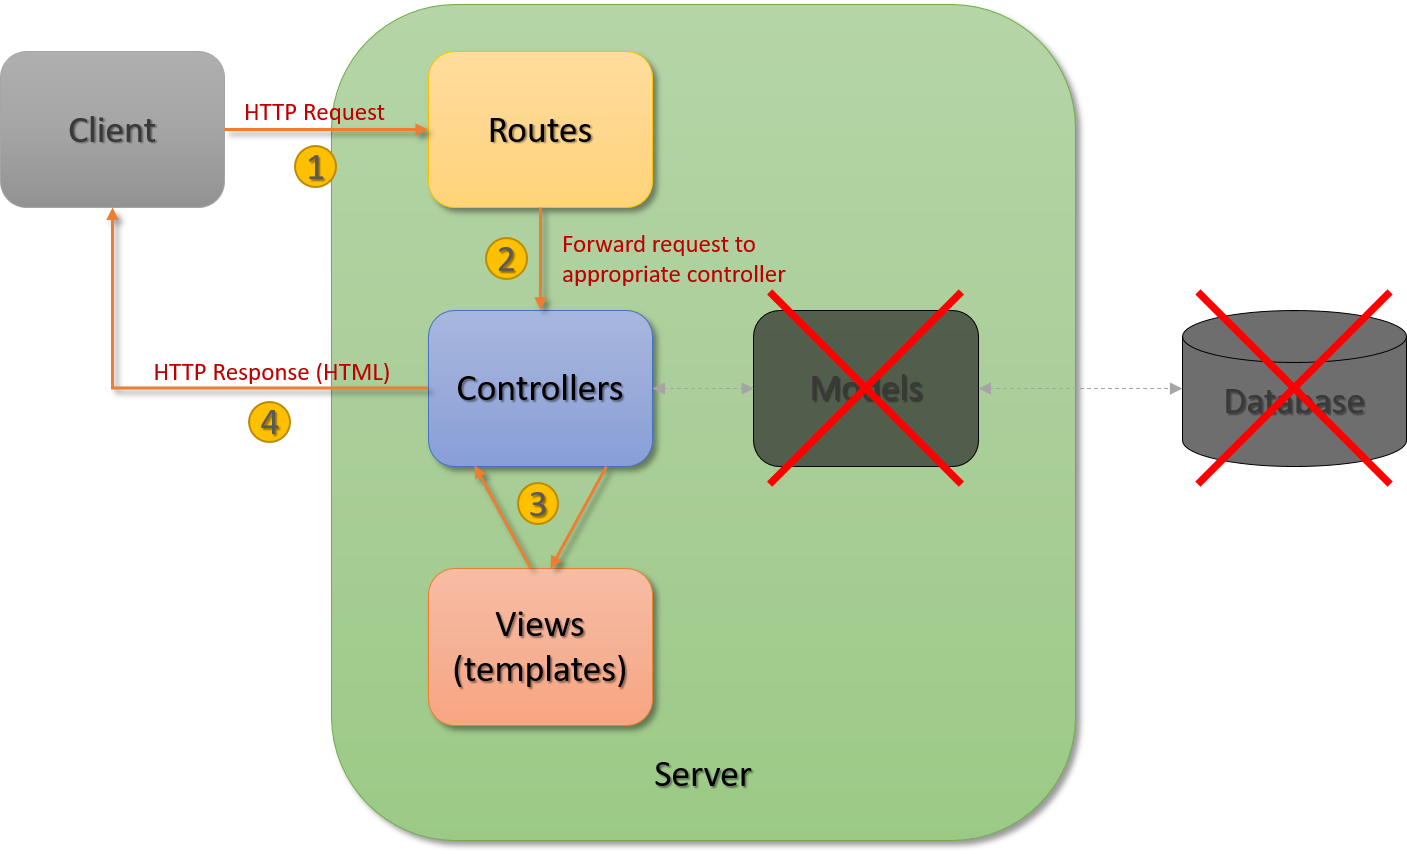
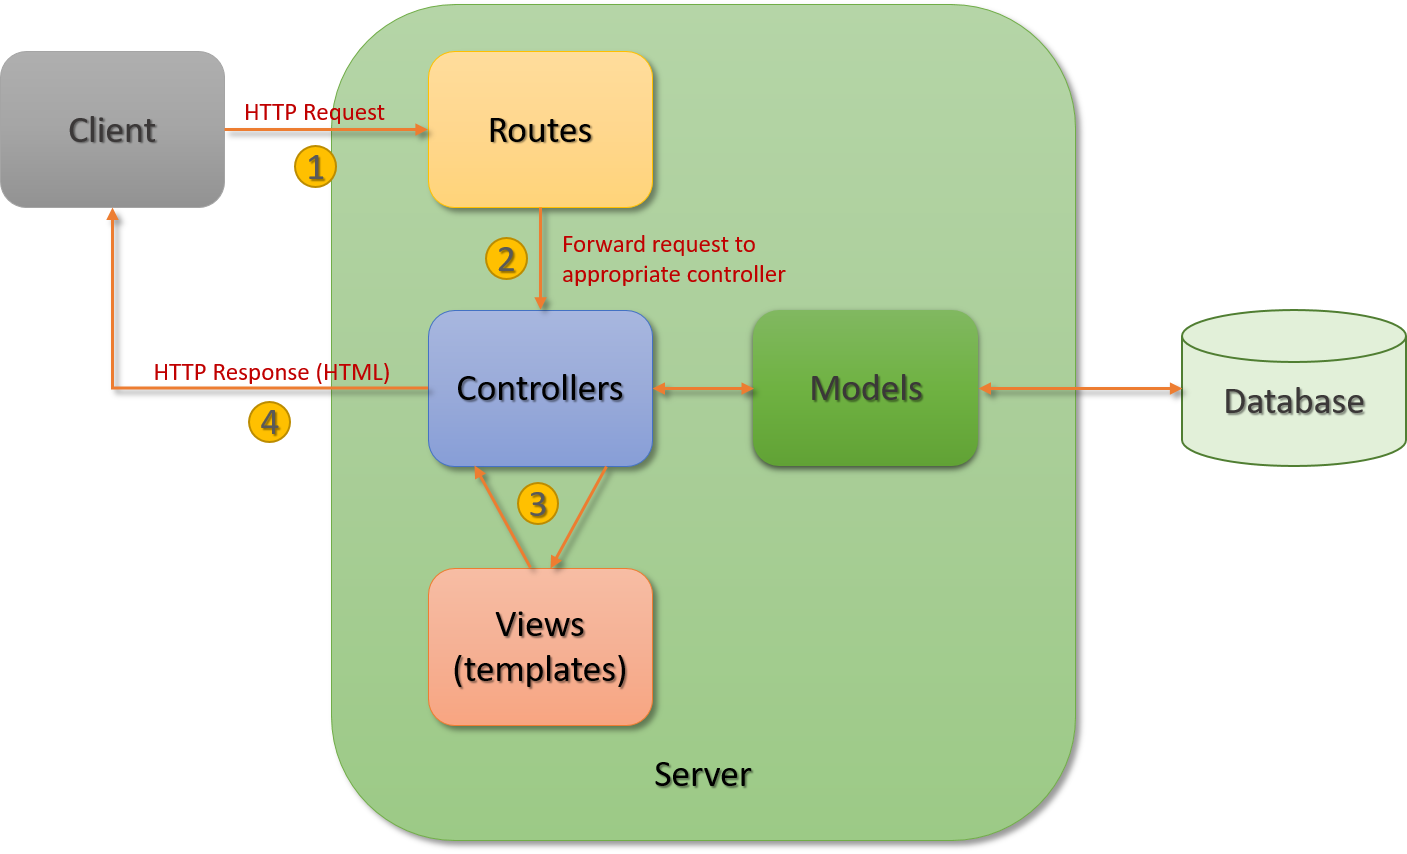
Updating l03 before spring 2019

Changed region(s): [[0.4584, 0.3349, 1.0, 0.5785]]

diff --git a/lectures/03/index.html b/lectures/03/index.html
@@ -112,7 +112,7 @@
       <!-- Previous lecture -->
       <section data-markdown class="">
         <script type="text/template">
-          ### Previous leacture
+          ### Previous lecture
 
           - Web Application Architecture
             - N-tier architecture
@@ -138,6 +138,14 @@
             - Flash messages.
 
                   </script>
+      </section>
+
+      <section data-markdown>
+        <script type="text/template">
+          ### Overview of the CRUD web application
+
+          <img src="./images/express-overview.png" />
+        </script>
       </section>
 
       <!--- Persistent data -->
